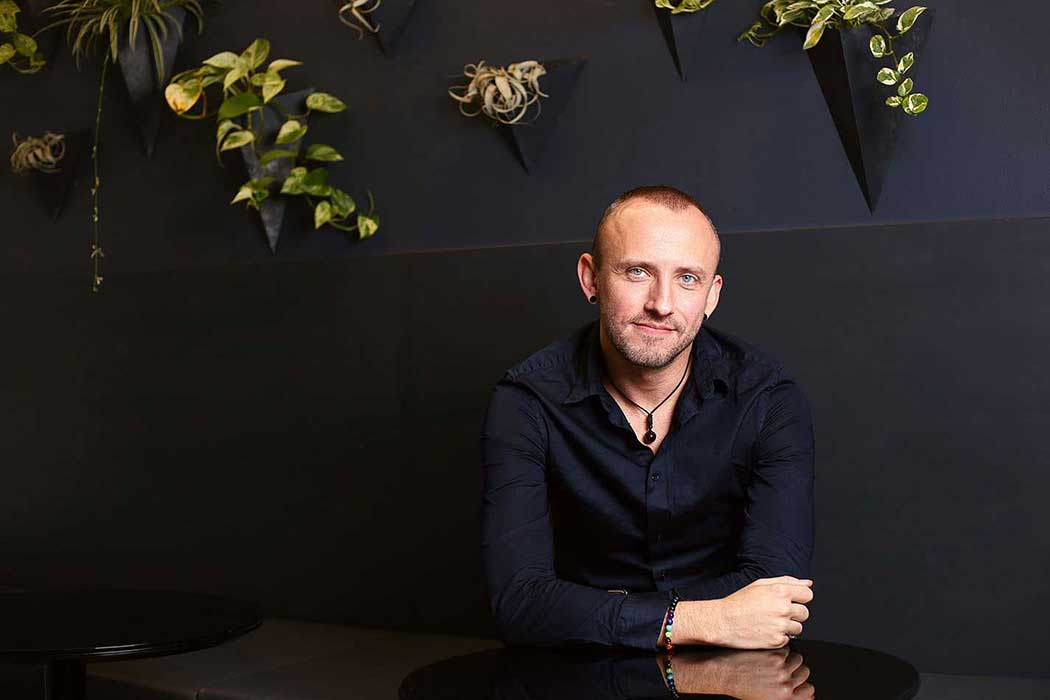
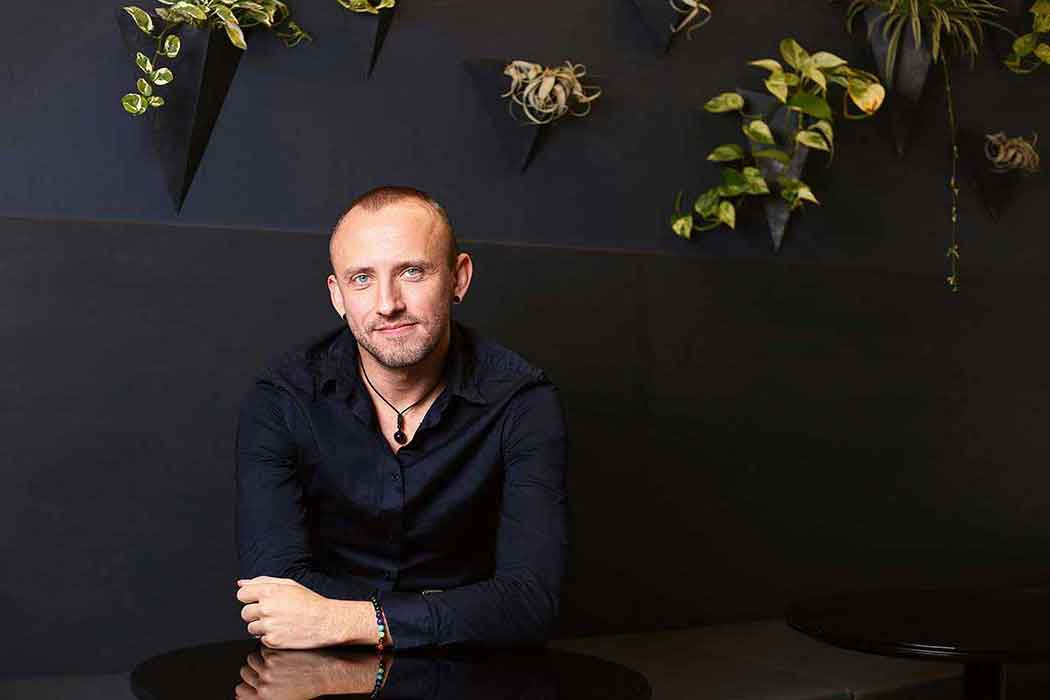
updated styling for buttons and image reflection for design balance

diff --git a/src/theme/variables.scss b/src/theme/variables.scss
@@ -8,51 +8,51 @@ http://ionicframework.com/docs/theming/ */
 
   /** primary **/
   --ion-color-primary: #445f7e;
-	--ion-color-primary-rgb: 68,95,126;
-	--ion-color-primary-contrast: #ffffff;
-	--ion-color-primary-contrast-rgb: 255,255,255;
-	--ion-color-primary-shade: #3c546f;
-	--ion-color-primary-tint: #576f8b;
+  --ion-color-primary-rgb: 68, 95, 126;
+  --ion-color-primary-contrast: #ffffff;
+  --ion-color-primary-contrast-rgb: 255, 255, 255;
+  --ion-color-primary-shade: #3c546f;
+  --ion-color-primary-tint: #576f8b;
 
   /** secondary **/
   --ion-color-secondary: #92afd0;
-	--ion-color-secondary-rgb: 146,175,208;
-	--ion-color-secondary-contrast: #000000;
-	--ion-color-secondary-contrast-rgb: 0,0,0;
-	--ion-color-secondary-shade: #809ab7;
-	--ion-color-secondary-tint: #9db7d5;
+  --ion-color-secondary-rgb: 146, 175, 208;
+  --ion-color-secondary-contrast: #000000;
+  --ion-color-secondary-contrast-rgb: 0, 0, 0;
+  --ion-color-secondary-shade: #809ab7;
+  --ion-color-secondary-tint: #9db7d5;
 
   /** tertiary **/
   --ion-color-tertiary: #97c3f5;
-	--ion-color-tertiary-rgb: 151,195,245;
-	--ion-color-tertiary-contrast: #000000;
-	--ion-color-tertiary-contrast-rgb: 0,0,0;
-	--ion-color-tertiary-shade: #85acd8;
-	--ion-color-tertiary-tint: #a1c9f6;
+  --ion-color-tertiary-rgb: 151, 195, 245;
+  --ion-color-tertiary-contrast: #000000;
+  --ion-color-tertiary-contrast-rgb: 0, 0, 0;
+  --ion-color-tertiary-shade: #85acd8;
+  --ion-color-tertiary-tint: #a1c9f6;
 
   /** success **/
   --ion-color-success: #299353;
-	--ion-color-success-rgb: 41,147,83;
-	--ion-color-success-contrast: #ffffff;
-	--ion-color-success-contrast-rgb: 255,255,255;
-	--ion-color-success-shade: #248149;
-	--ion-color-success-tint: #3e9e64;
+  --ion-color-success-rgb: 41, 147, 83;
+  --ion-color-success-contrast: #ffffff;
+  --ion-color-success-contrast-rgb: 255, 255, 255;
+  --ion-color-success-shade: #248149;
+  --ion-color-success-tint: #3e9e64;
 
   /** warning **/
   --ion-color-warning: #e3b72a;
-	--ion-color-warning-rgb: 227,183,42;
-	--ion-color-warning-contrast: #000000;
-	--ion-color-warning-contrast-rgb: 0,0,0;
-	--ion-color-warning-shade: #c8a125;
-	--ion-color-warning-tint: #e6be3f;
+  --ion-color-warning-rgb: 227, 183, 42;
+  --ion-color-warning-contrast: #000000;
+  --ion-color-warning-contrast-rgb: 0, 0, 0;
+  --ion-color-warning-shade: #c8a125;
+  --ion-color-warning-tint: #e6be3f;
 
   /** danger **/
   --ion-color-danger: #de465a;
-	--ion-color-danger-rgb: 222,70,90;
-	--ion-color-danger-contrast: #ffffff;
-	--ion-color-danger-contrast-rgb: 255,255,255;
-	--ion-color-danger-shade: #c33e4f;
-	--ion-color-danger-tint: #e1596b;
+  --ion-color-danger-rgb: 222, 70, 90;
+  --ion-color-danger-contrast: #ffffff;
+  --ion-color-danger-contrast-rgb: 255, 255, 255;
+  --ion-color-danger-shade: #c33e4f;
+  --ion-color-danger-tint: #e1596b;
 
   /** dark **/
   --ion-color-dark: #222428;
@@ -64,19 +64,19 @@ http://ionicframework.com/docs/theming/ */
 
   /** medium **/
   --ion-color-medium: #92949c;
-	--ion-color-medium-rgb: 146,148,156;
-	--ion-color-medium-contrast: #000000;
-	--ion-color-medium-contrast-rgb: 0,0,0;
-	--ion-color-medium-shade: #808289;
-	--ion-color-medium-tint: #9d9fa6;
+  --ion-color-medium-rgb: 146, 148, 156;
+  --ion-color-medium-contrast: #000000;
+  --ion-color-medium-contrast-rgb: 0, 0, 0;
+  --ion-color-medium-shade: #808289;
+  --ion-color-medium-tint: #9d9fa6;
 
   /** light **/
   --ion-color-light: #f4f5f8;
-	--ion-color-light-rgb: 244,245,248;
-	--ion-color-light-contrast: #000000;
-	--ion-color-light-contrast-rgb: 0,0,0;
-	--ion-color-light-shade: #d7d8da;
-	--ion-color-light-tint: #f5f6f9;
+  --ion-color-light-rgb: 244, 245, 248;
+  --ion-color-light-contrast: #000000;
+  --ion-color-light-contrast-rgb: 0, 0, 0;
+  --ion-color-light-shade: #d7d8da;
+  --ion-color-light-tint: #f5f6f9;
 }
 
 @media (prefers-color-scheme: dark) {
@@ -86,66 +86,66 @@ http://ionicframework.com/docs/theming/ */
    */
 
   body {
-    --ion-color-primary: #a4c3e6;
-    --ion-color-primary-rgb: 164,195,230;
+    --ion-color-primary: #5b799b;
+    --ion-color-primary-rgb: 164, 195, 230;
     --ion-color-primary-contrast: #ffffff;
-    --ion-color-primary-contrast-rgb: 255,255,255;
+    --ion-color-primary-contrast-rgb: 255, 255, 255;
     --ion-color-primary-shade: #90acca;
     --ion-color-primary-tint: #adc9e9;
 
     --ion-color-secondary: #67c7f4;
-    --ion-color-secondary-rgb: 103,199,244;
+    --ion-color-secondary-rgb: 103, 199, 244;
     --ion-color-secondary-contrast: #ffffff;
-    --ion-color-secondary-contrast-rgb: 255,255,255;
+    --ion-color-secondary-contrast-rgb: 255, 255, 255;
     --ion-color-secondary-shade: #5bafd7;
     --ion-color-secondary-tint: #76cdf5;
 
     --ion-color-tertiary: #90accb;
-    --ion-color-tertiary-rgb: 106,100,255;
+    --ion-color-tertiary-rgb: 106, 100, 255;
     --ion-color-tertiary-contrast: #ffffff;
-    --ion-color-tertiary-contrast-rgb: 255,255,255;
+    --ion-color-tertiary-contrast-rgb: 255, 255, 255;
     --ion-color-tertiary-shade: #5d58e0;
     --ion-color-tertiary-tint: #7974ff;
 
     --ion-color-success: #3ab46a;
-    --ion-color-success-rgb: 58,180,106;
+    --ion-color-success-rgb: 58, 180, 106;
     --ion-color-success-contrast: #000000;
-    --ion-color-success-contrast-rgb: 0,0,0;
+    --ion-color-success-contrast-rgb: 0, 0, 0;
     --ion-color-success-shade: #339e5d;
     --ion-color-success-tint: #4ebc79;
 
     --ion-color-warning: #e5c341;
-    --ion-color-warning-rgb: 229,195,65;
+    --ion-color-warning-rgb: 229, 195, 65;
     --ion-color-warning-contrast: #000000;
-    --ion-color-warning-contrast-rgb: 0,0,0;
+    --ion-color-warning-contrast-rgb: 0, 0, 0;
     --ion-color-warning-shade: #e0ac08;
     --ion-color-warning-tint: #ffca22;
 
     --ion-color-danger: #cb4052;
-    --ion-color-danger-rgb: 203,64,82;
+    --ion-color-danger-rgb: 203, 64, 82;
     --ion-color-danger-contrast: #ffffff;
-    --ion-color-danger-contrast-rgb: 255,255,255;
+    --ion-color-danger-contrast-rgb: 255, 255, 255;
     --ion-color-danger-shade: #b33848;
     --ion-color-danger-tint: #d05363;
 
     --ion-color-dark: #f5f6f9;
-    --ion-color-dark-rgb: 245,246,249;
+    --ion-color-dark-rgb: 245, 246, 249;
     --ion-color-dark-contrast: #000000;
-    --ion-color-dark-contrast-rgb: 0,0,0;
+    --ion-color-dark-contrast-rgb: 0, 0, 0;
     --ion-color-dark-shade: #d7d8da;
     --ion-color-dark-tint: #ffffff;
 
     --ion-color-medium: #989aa2;
-    --ion-color-medium-rgb: 152,154,162;
+    --ion-color-medium-rgb: 152, 154, 162;
     --ion-color-medium-contrast: #000000;
-    --ion-color-medium-contrast-rgb: 0,0,0;
+    --ion-color-medium-contrast-rgb: 0, 0, 0;
     --ion-color-medium-shade: #86888f;
     --ion-color-medium-tint: #a2a4ab;
 
     --ion-color-light: #222428;
-    --ion-color-light-rgb: 34,36,40;
+    --ion-color-light-rgb: 34, 36, 40;
     --ion-color-light-contrast: #ffffff;
-    --ion-color-light-contrast-rgb: 255,255,255;
+    --ion-color-light-contrast-rgb: 255, 255, 255;
     --ion-color-light-shade: #1e2023;
     --ion-color-light-tint: #383a3e;
   }
@@ -157,10 +157,10 @@ http://ionicframework.com/docs/theming/ */
 
   .ios body {
     --ion-background-color: #535353;
-    --ion-background-color-rgb: 83,83,83;
+    --ion-background-color-rgb: 83, 83, 83;
 
     --ion-text-color: #ffffff;
-    --ion-text-color-rgb: 255,255,255;
+    --ion-text-color-rgb: 255, 255, 255;
 
     --ion-color-step-50: #0d0d0d;
     --ion-color-step-100: #1a1a1a;
@@ -193,7 +193,6 @@ http://ionicframework.com/docs/theming/ */
     --ion-toolbar-border-color: var(--ion-color-step-250);
   }
 
-
   /*
    * Material Design Dark Theme
    * -------------------------------------------
@@ -201,10 +200,10 @@ http://ionicframework.com/docs/theming/ */
 
   .md body {
     --ion-background-color: #535353;
-    --ion-background-color-rgb: 83,83,83;
+    --ion-background-color-rgb: 83, 83, 83;
 
     --ion-text-color: #ffffff;
-    --ion-text-color-rgb: 255,255,255;
+    --ion-text-color-rgb: 255, 255, 255;
 
     --ion-border-color: #222222;
 

diff --git a/src/pages/SkinPage/SkinPage.tsx b/src/pages/SkinPage/SkinPage.tsx
@@ -1,4 +1,11 @@
-import { IonCol, IonContent, IonHeader, IonPage, IonToolbar } from '@ionic/react';
+import {
+  IonButton,
+  IonCol,
+  IonContent,
+  IonHeader,
+  IonPage,
+  IonToolbar
+} from '@ionic/react';
 import MenuButton from '../../components/menu/MenuButton/MenuButton';
 
 import './SkinPage.scss';
@@ -13,18 +20,25 @@ export const SkinPage: React.FC = () => {
             <MenuButton /> 
           </IonToolbar>
         </IonHeader>
-        <FullScreenRow className="ion-hide-lg-up ion-align-items-center ion-justify-content-end">
+        <FullScreenRow className="ion-hide-lg-up ion-align-items-center ion-justify-content-end ion-padding">
           <IonCol size="12">&nbsp;</IonCol>
-          <IonCol size="12" className="">
+          <IonCol size="12" className="ion-padding">
             <h3 className="ion-text-center">hi there, I'm</h3>
             <h1 className="ion-text-center">Terence Waters</h1>
             <h3 className="ion-text-center">ui/ux designer, <br />web developer &amp; tutor</h3>
             <button className="ion-center">hire me!</button>
           </IonCol>
         </FullScreenRow>
-        <FullScreenRow className="ion-justify-content-center ion-hide-lg-down">
-          <IonCol className="ion-align-items-center ion-justify-content-center ion-hide-sm-down">hi there, I'm Terence Waters</IonCol>
-          <IonCol>Six Medium screen</IonCol>
+        <FullScreenRow className="ion-justify-content-center ion-align-items-center ion-hide-lg-down ion-padding">
+          <IonCol className="ion-padding">
+            <h3 className="ion-text-center">hi there, I'm</h3>
+            <h1 className="ion-text-center ion-margin-bottom">Terence Waters</h1>
+            <div className="ion-justify-content-center ion-align-items-center">
+              <h3 className="ion-text-center">ui/ux designer, <br />web developer &amp; tutor</h3>
+              <IonButton color="primary">hire me!</IonButton>
+            </div>
+          </IonCol>
+          <IonCol>&nbsp;</IonCol>
         </FullScreenRow>
       </IonContent>
     </IonPage>

diff --git a/src/theme/typography.scss b/src/theme/typography.scss
@@ -119,3 +119,91 @@ pre {
     line-height: 18px !important;
   }
 }
+@media (max-width: 1300px) and (min-width: 992px) {
+  h1 {
+    font-size: 3.25rem !important;
+    letter-spacing: -0.25px !important;
+    line-height: 64px !important;
+    font-weight: 900 !important;
+    margin: 0 0 36px 0 !important;
+  }
+
+  h2 {
+    font-size: 1.5rem !important;
+    letter-spacing: -0.25px !important;
+    line-height: 28px !important;
+  }
+
+  h3 {
+    font-size: 1.875rem !important;
+    letter-spacing: -0.25px !important;
+    line-height: 36px !important;
+  }
+
+  h4 {
+    font-size: 1.125rem !important;
+    letter-spacing: -0.15px !important;
+    line-height: 24px !important;
+  }
+
+  h5 {
+    font-size: 0.875rem !important;
+    letter-spacing: -0.15px !important;
+    line-height: 18px !important;
+  }
+
+  h6 {
+    font-size: 0.625rem !important;
+    letter-spacing: -0.1 !important;
+    line-height: 12px !important;
+  }
+
+  p {
+    font-size: 0.875rem !important;
+    line-height: 18px !important;
+  }
+}
+@media (min-width: 1300px) {
+  h1 {
+    font-size: 4.25rem !important;
+    letter-spacing: 0.5px !important;
+    line-height: 72px !important;
+    font-weight: 900 !important;
+    margin: 0 0 10rem 0 !important;
+  }
+
+  h2 {
+    font-size: 1.5rem !important;
+    letter-spacing: -0.25px !important;
+    line-height: 28px !important;
+  }
+
+  h3 {
+    font-size: 1.875rem !important;
+    letter-spacing: -0.25px !important;
+    line-height: 36px !important;
+  }
+
+  h4 {
+    font-size: 1.125rem !important;
+    letter-spacing: -0.15px !important;
+    line-height: 24px !important;
+  }
+
+  h5 {
+    font-size: 0.875rem !important;
+    letter-spacing: -0.15px !important;
+    line-height: 18px !important;
+  }
+
+  h6 {
+    font-size: 0.625rem !important;
+    letter-spacing: -0.1 !important;
+    line-height: 12px !important;
+  }
+
+  p {
+    font-size: 0.875rem !important;
+    line-height: 18px !important;
+  }
+}

diff --git a/src/theme/form-elements.scss b/src/theme/form-elements.scss
@@ -1,6 +1,8 @@
 ion-button {
-  padding: 8px 16px;
-  --color: --ion-color-primary;
   font-family: 'Helvetica Neue Light', sans-serif;
   font-size: 1rem;
+  margin: 0 auto;
+  max-width: 400px;
+  width: 50%;
+  text-transform: lowercase;
 }
